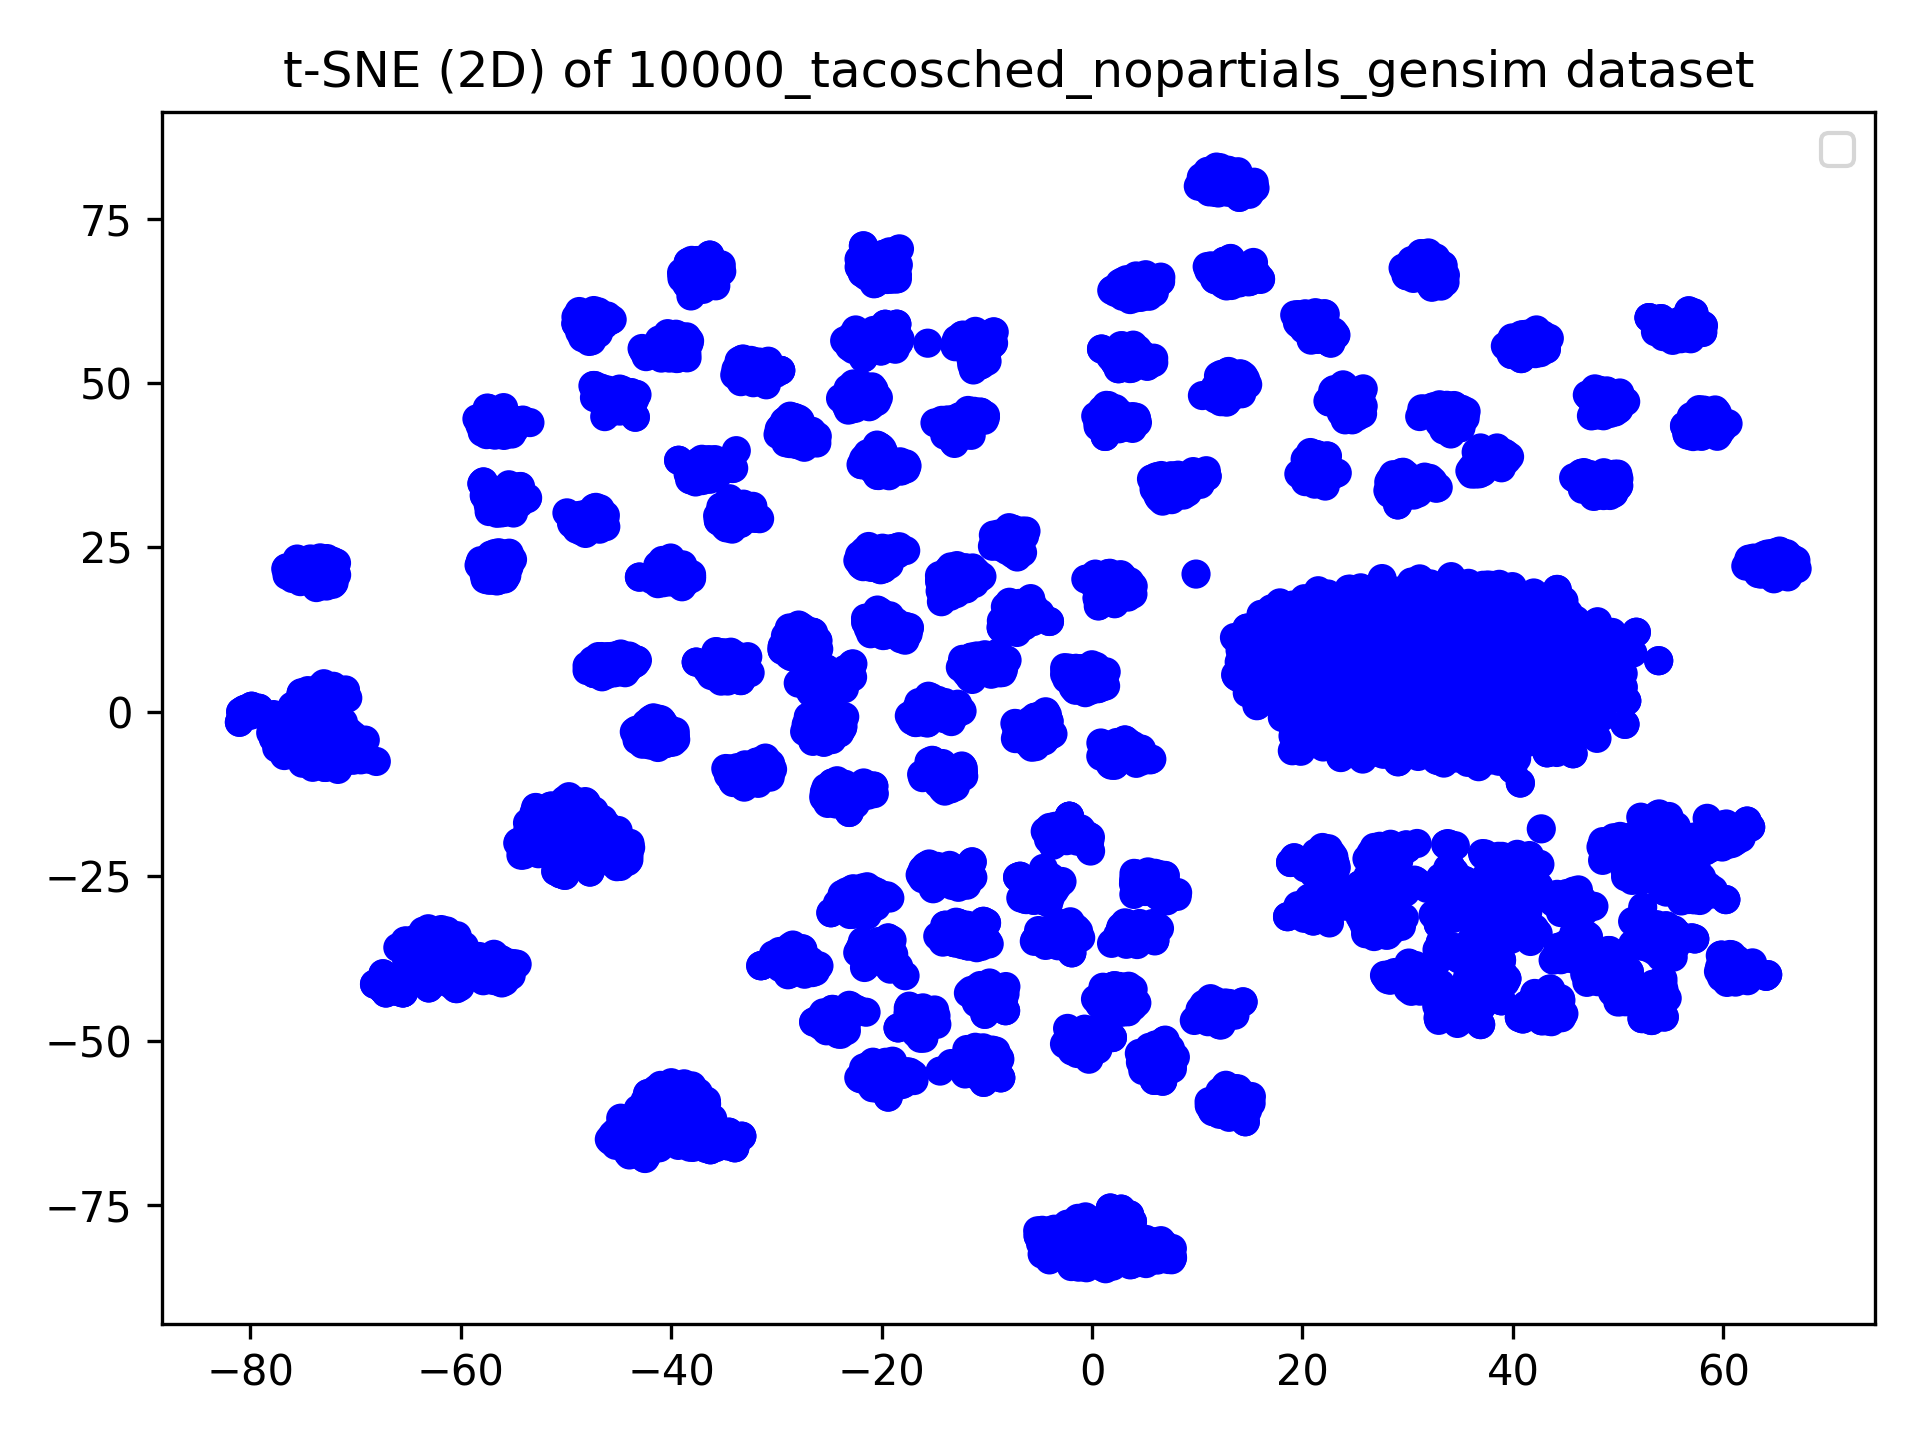
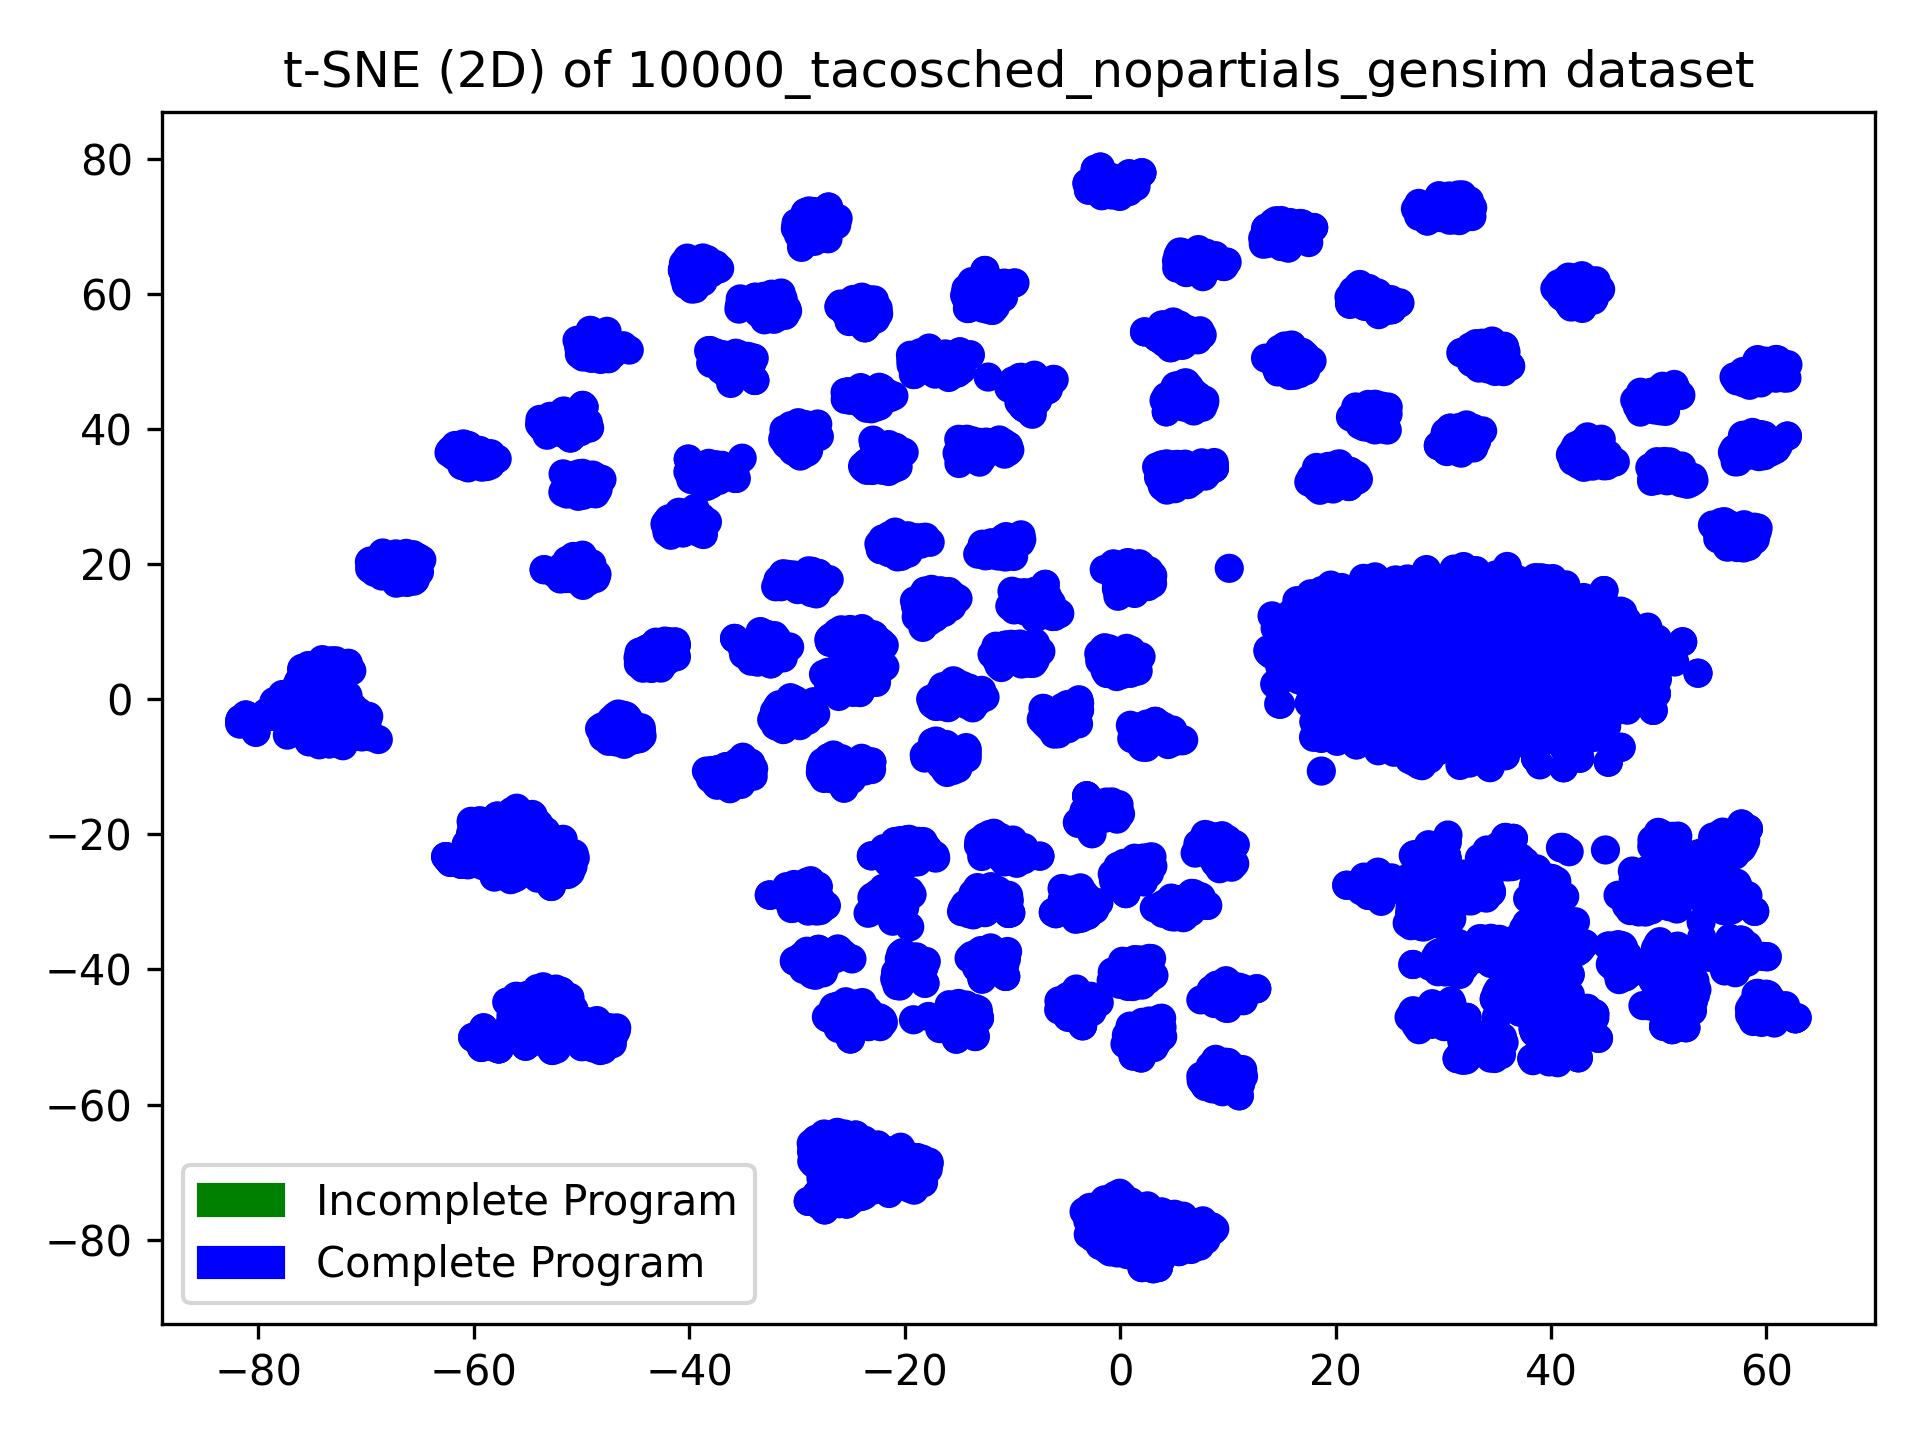
fix: visualizations need better legend

diff --git a/lang-explorer-python/src/commands/viz.py b/lang-explorer-python/src/commands/viz.py
@@ -1,6 +1,7 @@
 
 import numpy as np
 import matplotlib.pyplot as plt
+import matplotlib.patches as mpatches
 from sklearn.manifold import TSNE
 from sklearn.cluster import AgglomerativeClustering, SpectralClustering
 from sklearn.metrics.pairwise import cosine_distances, euclidean_distances, manhattan_distances 
@@ -23,7 +24,8 @@ def data_viz(args):
 
 	embedding2 = TSNE(2).fit_transform(data.iloc[:,3:-1])
 	plt.title(f"t-SNE (2D) of {plain} dataset")
-	plt.scatter(embedding2[:,0], embedding2[:,1], c=data["plen"])
+	scatter = plt.scatter(embedding2[:,0], embedding2[:,1], c=data["plen"])
+	plt.colorbar(scatter, label='Program Length')
 	plt.tight_layout()
 	plt.savefig(f"{args.output}/tsne2d{plain}colors.png", dpi=300)
 	plt.close()
@@ -32,11 +34,13 @@ def data_viz(args):
 	color_map = {True: "green", False: "blue"}
 	label_map = {True: "Incomplete Program", False: "Complete Program"}
 	colors = [color_map[val] for val in data["is_partial"]]
-	# labels = [label_map[val] for val in data["is_partial"]]
-
+	handles = [
+    	mpatches.Patch(color="green", label="Incomplete Program"),
+    	mpatches.Patch(color="blue", label="Complete Program")
+	]
 	plt.scatter(embedding2[:,0], embedding2[:,1], c=colors)
 	plt.tight_layout()
-	plt.legend()
+	plt.legend(handles=handles)
 	plt.savefig(f"{args.output}/tsne2d{plain}ispartial.png", dpi=300)
 	plt.close()
 
